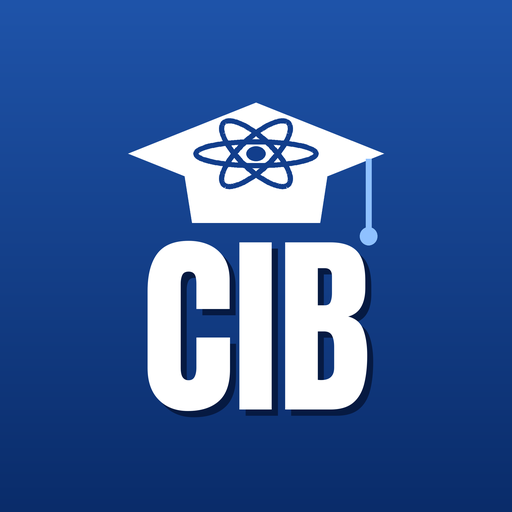
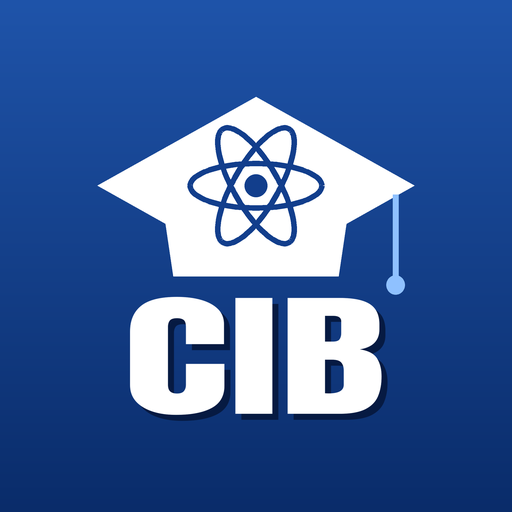
Ícone com átomo sem deformação; formulário com essenciais em destaque e 43 fórmulas complementares
Claude-Session: https://claude.ai/code/session_01Gk3ac94Cfx6E4qgia26HRX

Changed region(s): [[0.1875, 0.1875, 0.8125, 0.8438]]

diff --git a/index.html b/index.html
@@ -305,6 +305,26 @@ body{font-size:16px}
 .ln-bloco .ln-head::before{content:"";position:absolute;left:31px;top:2.5px;border-top:4.75px solid transparent;border-bottom:4.75px solid transparent;border-left:7px solid var(--road-ink)}
 .ln-bloco{margin-right:30px}
 .ln-bloco .ln-src{width:4px;height:22px;left:-12px;top:13px;transform:translateY(-50%);background:repeating-linear-gradient(180deg,var(--road-ink) 0 2px,transparent 2px 5px);opacity:.6}
+/* Formulário: essenciais em destaque; complementares recolhidas e mais discretas */
+:root{--main-bg:#E3ECFA;--main-line:#123E8C;--extra-line:#9AA7B6}
+@media (prefers-color-scheme: dark){:root:not([data-theme="light"]){--main-bg:#14254A;--main-line:#6F9BE8;--extra-line:#4A5868}}
+:root[data-theme="dark"]{--main-bg:#14254A;--main-line:#6F9BE8;--extra-line:#4A5868}
+.leg{display:inline-block;white-space:nowrap;font-family:var(--f-mono);font-size:11px;font-weight:600;letter-spacing:.06em;text-transform:uppercase;padding:2px 8px;border-radius:999px;margin-right:6px;vertical-align:1px}
+.leg-main{background:var(--main-line);color:#FFFFFF}
+.leg-extra{background:transparent;color:var(--muted);box-shadow:inset 0 0 0 1px var(--extra-line)}
+.formleg{gap:8px}
+.formleg p{font-size:15px}
+.form-tag{margin:0}
+.tool.tool-main{background:var(--main-bg);border-left:4px solid var(--main-line)}
+.tool.tool-main h4{color:var(--main-line)}
+.form-extra{border-top:1.5px dashed var(--line);padding-top:10px}
+.form-extra summary{list-style:none;display:flex;align-items:center;gap:8px;cursor:pointer;padding:4px 0}
+.form-extra summary::-webkit-details-marker{display:none}
+.form-extra summary .chev{margin-left:auto;font-family:var(--f-mono);color:var(--muted);transition:transform .2s}
+.form-extra[open] summary .chev{transform:rotate(90deg)}
+.form-extra .form-grid{margin-top:10px}
+.tool.tool-extra{background:transparent;border:1px dashed var(--extra-line)}
+.tool.tool-extra div{font-size:15px}
 
 .install{border-color:var(--sign)}
 .install p{margin:0}
@@ -781,6 +801,63 @@ const FORMULARIO = [
     ['Gravitação universal', `F = G · ${f('M · m','d²')}<br><small>G = 6,7 × 10⁻¹¹ N·m²/kg²</small>`],
     ['Energia de um fóton', `E = h · f<br><small>h = 6,6 × 10⁻³⁴ J·s</small>`]]]
 ];
+
+/* ===== Formulário · fórmulas complementares ("Para ir além") ===== */
+const FORMULARIO_EXTRA = {
+  'Eletrodinâmica': [
+    ['Corrente elétrica', `i = ${f('ΔQ','Δt')} &nbsp;;&nbsp; Q = n · e<br><small>e = 1,6 × 10⁻¹⁹ C</small>`],
+    ['Rendimento do gerador', `P<sub>útil</sub> = U · i &nbsp;;&nbsp; P<sub>total</sub> = ε · i<br>η = ${f('U','ε')}`],
+    ['Custo da energia', `custo = E (kWh) × tarifa (R$/kWh)`],
+    ['Fusível e disjuntor', `<small>escolha o valor imediatamente acima da maior corrente de operação do circuito</small>`]],
+  'Magnetismo': [
+    ['Força magnética sobre carga', `F = |q| · v · B · sen θ`],
+    ['Força magnética sobre fio', `F = B · i · L · sen θ`],
+    ['Campo de um fio longo', `B = ${f('μ₀ · i','2π · d')}<br><small>μ₀ = 4π × 10⁻⁷ T·m/A</small>`],
+    ['fem de movimento', `ε = B · L · v`],
+    ['Lei de Lenz', `<small>a corrente induzida se opõe à variação do fluxo que a produziu</small>`]],
+  'Termologia': [
+    ['Capacidade térmica', `C = m · c = ${f('Q','ΔT')}`],
+    ['Equilíbrio térmico', `Q₁ + Q₂ + … = 0<br><small>calor recebido positivo; cedido negativo</small>`],
+    ['Dilatação superficial e volumétrica', `ΔA = A₀ · β · ΔT &nbsp;;&nbsp; ΔV = V₀ · γ · ΔT<br><small>β = 2α; γ = 3α</small>`],
+    ['1ª lei da termodinâmica', `ΔU = Q − τ<br>pressão constante: τ = p · ΔV`]],
+  'Ondulatória': [
+    ['Período e frequência', `T = ${f('1','f')}`],
+    ['Tubos sonoros', `aberto: f<sub>n</sub> = ${f('n · v','2L')} &nbsp;;&nbsp; fechado: f<sub>n</sub> = ${f('n · v','4L')} <small>(n ímpar)</small>`],
+    ['Velocidade numa corda', `v = √${f('F','μ')}<br><small>μ: massa por unidade de comprimento</small>`],
+    ['Nível de intensidade sonora', `β = 10 · log ${f('I','I₀')} <small>(dB)</small>`],
+    ['Efeito Doppler', `f′ = f · ${f('v ± v<sub>o</sub>','v ∓ v<sub>f</sub>')}<br><small>sinais de cima: observador e fonte se aproximando</small>`]],
+  'Cinemática': [
+    ['Queda livre', `v = g · t &nbsp;;&nbsp; h = ${f('g · t²','2')}`],
+    ['Lançamento oblíquo', `v<sub>x</sub> = v₀ · cos θ &nbsp;;&nbsp; v<sub>0y</sub> = v₀ · sen θ<br>alcance: A = ${f('v₀² · sen 2θ','g')}`],
+    ['Movimento circular uniforme', `ω = 2π · f &nbsp;;&nbsp; v = ω · R<br>a<sub>cp</sub> = ${f('v²','R')}`]],
+  'Dinâmica e energia': [
+    ['Força elástica', `F = k · x`],
+    ['Resultante centrípeta', `F<sub>cp</sub> = ${f('m · v²','R')}`],
+    ['Plano inclinado', `P<sub>x</sub> = P · sen θ &nbsp;;&nbsp; P<sub>y</sub> = P · cos θ`],
+    ['Teorema da energia cinética', `τ<sub>R</sub> = ΔE<sub>c</sub>`],
+    ['Rendimento', `η = ${f('P<sub>útil</sub>','P<sub>total</sub>')}`],
+    ['Colisões', `e = ${f('v<sub>afastamento</sub>','v<sub>aproximação</sub>')}<br><small>e = 1: elástica; e = 0: perfeitamente inelástica</small>`]],
+  'Fluidos': [
+    ['Peso aparente', `P<sub>ap</sub> = P − E`],
+    ['Vazão e continuidade', `Z = ${f('V','Δt')} = A · v &nbsp;;&nbsp; A₁ · v₁ = A₂ · v₂`],
+    ['Pressão atmosférica', `1 atm ≈ 1,0 × 10⁵ Pa ≈ 76 cmHg<br><small>≈ coluna de 10 m de água</small>`]],
+  'Eletrostática': [
+    ['Campo elétrico', `E = ${f('F','|q|')} &nbsp;;&nbsp; E = k · ${f('|Q|','d²')}`],
+    ['Potencial e trabalho', `V = k · ${f('Q','d')} &nbsp;;&nbsp; τ = q · U<br>campo uniforme: U = E · d`],
+    ['Constante eletrostática', `k = 9,0 × 10⁹ N·m²/C² <small>(no vácuo)</small>`]],
+  'Óptica': [
+    ['Espelhos esféricos', `f = ${f('R','2')} <small>(mesma equação de Gauss das lentes)</small>`],
+    ['Ângulo limite', `sen L = ${f('n<sub>menor</sub>','n<sub>maior</sub>')}`],
+    ['Câmara escura', `${f('i','o')} = ${f('p′','p')}`],
+    ['Associação de espelhos planos', `N = ${f('360°','α')} − 1`],
+    ['Lentes justapostas', `V = V₁ + V₂`]],
+  'Gravitação e física moderna': [
+    ['Gravidade na superfície', `g = ${f('G · M','R²')}`],
+    ['3ª lei de Kepler', `${f('T²','r³')} = constante`],
+    ['Efeito fotoelétrico', `E<sub>c máx</sub> = h · f − W<br><small>W: função trabalho do metal</small>`],
+    ['Massa e energia', `E = m · c²`],
+    ['Meia-vida', `m = ${f('m₀','2ⁿ')}<br><small>n: número de meias-vidas</small>`]]
+};
 
 /* ===== Indução eletromagnética · Listas 1 e 2 (vindas do site do 3º ano) ===== */
 /* ===== figuras ===== */
@@ -1637,9 +1714,18 @@ function openFormulario(){
   plate(`Física · ${SITE.turma} · Aulão`, 'Formulário', 'Todas as fórmulas da lista do aulão, por assunto.');
   document.documentElement.classList.add('th-form');
   crumbs([{ label:'Início', nav:'home' }, { label:'Formulário' }]);
+  const totalExtra = Object.values(FORMULARIO_EXTRA).reduce((n, l) => n + l.length, 0);
   $('view').innerHTML = `
+    <section class="card intro formleg"><p><span class="leg leg-main">Essenciais</span> São as fórmulas da lista do aulão. Comece por elas: dominando estas, você resolve as 30 questões.</p>
+      <p><span class="leg leg-extra">Para ir além</span> Mais ${totalExtra} fórmulas que costumam aparecer no ENEM. Abra em cada assunto quando as essenciais já estiverem firmes.</p></section>
     <nav class="card formnav" aria-label="Assuntos do formulário"><p class="sect-label">Ir para</p><div class="row" style="gap:6px">${FORMULARIO.map(([sec], i) => `<a class="chip chip-link" href="#/formulario" data-sec="${i}">${sec}</a>`).join('')}</div></nav>
-    ${FORMULARIO.map(([sec, itens], i) => `<section class="card formsec" id="sec${i}"><h2 class="formh">${sec}</h2><div class="tools-grid form-grid">${itens.map(([t, h]) => `<div class="tool"><h4>${t}</h4><div>${h}</div></div>`).join('')}</div></section>`).join('')}`;
+    ${FORMULARIO.map(([sec, itens], i) => { const ex = FORMULARIO_EXTRA[sec] || [];
+      return `<section class="card formsec" id="sec${i}"><h2 class="formh">${sec}</h2>
+        <p class="form-tag"><span class="leg leg-main">Essenciais</span></p>
+        <div class="tools-grid form-grid">${itens.map(([t, h]) => `<div class="tool tool-main"><h4>${t}</h4><div>${h}</div></div>`).join('')}</div>
+        ${ex.length ? `<details class="form-extra"><summary><span class="leg leg-extra">Para ir além</span><span class="small">${ex.length} ${ex.length > 1 ? 'fórmulas complementares' : 'fórmula complementar'}</span><span class="chev">›</span></summary>
+          <div class="tools-grid form-grid">${ex.map(([t, h]) => `<div class="tool tool-extra"><h4>${t}</h4><div>${h}</div></div>`).join('')}</div></details>` : ''}
+      </section>`; }).join('')}`;
   toTop();
 }
 

diff --git a/fonte/enem.js b/fonte/enem.js
@@ -417,3 +417,60 @@ const FORMULARIO = [
     ['Gravitação universal', `F = G · ${f('M · m','d²')}<br><small>G = 6,7 × 10⁻¹¹ N·m²/kg²</small>`],
     ['Energia de um fóton', `E = h · f<br><small>h = 6,6 × 10⁻³⁴ J·s</small>`]]]
 ];
+
+/* ===== Formulário · fórmulas complementares ("Para ir além") ===== */
+const FORMULARIO_EXTRA = {
+  'Eletrodinâmica': [
+    ['Corrente elétrica', `i = ${f('ΔQ','Δt')} &nbsp;;&nbsp; Q = n · e<br><small>e = 1,6 × 10⁻¹⁹ C</small>`],
+    ['Rendimento do gerador', `P<sub>útil</sub> = U · i &nbsp;;&nbsp; P<sub>total</sub> = ε · i<br>η = ${f('U','ε')}`],
+    ['Custo da energia', `custo = E (kWh) × tarifa (R$/kWh)`],
+    ['Fusível e disjuntor', `<small>escolha o valor imediatamente acima da maior corrente de operação do circuito</small>`]],
+  'Magnetismo': [
+    ['Força magnética sobre carga', `F = |q| · v · B · sen θ`],
+    ['Força magnética sobre fio', `F = B · i · L · sen θ`],
+    ['Campo de um fio longo', `B = ${f('μ₀ · i','2π · d')}<br><small>μ₀ = 4π × 10⁻⁷ T·m/A</small>`],
+    ['fem de movimento', `ε = B · L · v`],
+    ['Lei de Lenz', `<small>a corrente induzida se opõe à variação do fluxo que a produziu</small>`]],
+  'Termologia': [
+    ['Capacidade térmica', `C = m · c = ${f('Q','ΔT')}`],
+    ['Equilíbrio térmico', `Q₁ + Q₂ + … = 0<br><small>calor recebido positivo; cedido negativo</small>`],
+    ['Dilatação superficial e volumétrica', `ΔA = A₀ · β · ΔT &nbsp;;&nbsp; ΔV = V₀ · γ · ΔT<br><small>β = 2α; γ = 3α</small>`],
+    ['1ª lei da termodinâmica', `ΔU = Q − τ<br>pressão constante: τ = p · ΔV`]],
+  'Ondulatória': [
+    ['Período e frequência', `T = ${f('1','f')}`],
+    ['Tubos sonoros', `aberto: f<sub>n</sub> = ${f('n · v','2L')} &nbsp;;&nbsp; fechado: f<sub>n</sub> = ${f('n · v','4L')} <small>(n ímpar)</small>`],
+    ['Velocidade numa corda', `v = √${f('F','μ')}<br><small>μ: massa por unidade de comprimento</small>`],
+    ['Nível de intensidade sonora', `β = 10 · log ${f('I','I₀')} <small>(dB)</small>`],
+    ['Efeito Doppler', `f′ = f · ${f('v ± v<sub>o</sub>','v ∓ v<sub>f</sub>')}<br><small>sinais de cima: observador e fonte se aproximando</small>`]],
+  'Cinemática': [
+    ['Queda livre', `v = g · t &nbsp;;&nbsp; h = ${f('g · t²','2')}`],
+    ['Lançamento oblíquo', `v<sub>x</sub> = v₀ · cos θ &nbsp;;&nbsp; v<sub>0y</sub> = v₀ · sen θ<br>alcance: A = ${f('v₀² · sen 2θ','g')}`],
+    ['Movimento circular uniforme', `ω = 2π · f &nbsp;;&nbsp; v = ω · R<br>a<sub>cp</sub> = ${f('v²','R')}`]],
+  'Dinâmica e energia': [
+    ['Força elástica', `F = k · x`],
+    ['Resultante centrípeta', `F<sub>cp</sub> = ${f('m · v²','R')}`],
+    ['Plano inclinado', `P<sub>x</sub> = P · sen θ &nbsp;;&nbsp; P<sub>y</sub> = P · cos θ`],
+    ['Teorema da energia cinética', `τ<sub>R</sub> = ΔE<sub>c</sub>`],
+    ['Rendimento', `η = ${f('P<sub>útil</sub>','P<sub>total</sub>')}`],
+    ['Colisões', `e = ${f('v<sub>afastamento</sub>','v<sub>aproximação</sub>')}<br><small>e = 1: elástica; e = 0: perfeitamente inelástica</small>`]],
+  'Fluidos': [
+    ['Peso aparente', `P<sub>ap</sub> = P − E`],
+    ['Vazão e continuidade', `Z = ${f('V','Δt')} = A · v &nbsp;;&nbsp; A₁ · v₁ = A₂ · v₂`],
+    ['Pressão atmosférica', `1 atm ≈ 1,0 × 10⁵ Pa ≈ 76 cmHg<br><small>≈ coluna de 10 m de água</small>`]],
+  'Eletrostática': [
+    ['Campo elétrico', `E = ${f('F','|q|')} &nbsp;;&nbsp; E = k · ${f('|Q|','d²')}`],
+    ['Potencial e trabalho', `V = k · ${f('Q','d')} &nbsp;;&nbsp; τ = q · U<br>campo uniforme: U = E · d`],
+    ['Constante eletrostática', `k = 9,0 × 10⁹ N·m²/C² <small>(no vácuo)</small>`]],
+  'Óptica': [
+    ['Espelhos esféricos', `f = ${f('R','2')} <small>(mesma equação de Gauss das lentes)</small>`],
+    ['Ângulo limite', `sen L = ${f('n<sub>menor</sub>','n<sub>maior</sub>')}`],
+    ['Câmara escura', `${f('i','o')} = ${f('p′','p')}`],
+    ['Associação de espelhos planos', `N = ${f('360°','α')} − 1`],
+    ['Lentes justapostas', `V = V₁ + V₂`]],
+  'Gravitação e física moderna': [
+    ['Gravidade na superfície', `g = ${f('G · M','R²')}`],
+    ['3ª lei de Kepler', `${f('T²','r³')} = constante`],
+    ['Efeito fotoelétrico', `E<sub>c máx</sub> = h · f − W<br><small>W: função trabalho do metal</small>`],
+    ['Massa e energia', `E = m · c²`],
+    ['Meia-vida', `m = ${f('m₀','2ⁿ')}<br><small>n: número de meias-vidas</small>`]]
+};

diff --git a/fonte/engine_app.js b/fonte/engine_app.js
@@ -480,9 +480,18 @@ function openFormulario(){
   plate(`Física · ${SITE.turma} · Aulão`, 'Formulário', 'Todas as fórmulas da lista do aulão, por assunto.');
   document.documentElement.classList.add('th-form');
   crumbs([{ label:'Início', nav:'home' }, { label:'Formulário' }]);
+  const totalExtra = Object.values(FORMULARIO_EXTRA).reduce((n, l) => n + l.length, 0);
   $('view').innerHTML = `
+    <section class="card intro formleg"><p><span class="leg leg-main">Essenciais</span> São as fórmulas da lista do aulão. Comece por elas: dominando estas, você resolve as 30 questões.</p>
+      <p><span class="leg leg-extra">Para ir além</span> Mais ${totalExtra} fórmulas que costumam aparecer no ENEM. Abra em cada assunto quando as essenciais já estiverem firmes.</p></section>
     <nav class="card formnav" aria-label="Assuntos do formulário"><p class="sect-label">Ir para</p><div class="row" style="gap:6px">${FORMULARIO.map(([sec], i) => `<a class="chip chip-link" href="#/formulario" data-sec="${i}">${sec}</a>`).join('')}</div></nav>
-    ${FORMULARIO.map(([sec, itens], i) => `<section class="card formsec" id="sec${i}"><h2 class="formh">${sec}</h2><div class="tools-grid form-grid">${itens.map(([t, h]) => `<div class="tool"><h4>${t}</h4><div>${h}</div></div>`).join('')}</div></section>`).join('')}`;
+    ${FORMULARIO.map(([sec, itens], i) => { const ex = FORMULARIO_EXTRA[sec] || [];
+      return `<section class="card formsec" id="sec${i}"><h2 class="formh">${sec}</h2>
+        <p class="form-tag"><span class="leg leg-main">Essenciais</span></p>
+        <div class="tools-grid form-grid">${itens.map(([t, h]) => `<div class="tool tool-main"><h4>${t}</h4><div>${h}</div></div>`).join('')}</div>
+        ${ex.length ? `<details class="form-extra"><summary><span class="leg leg-extra">Para ir além</span><span class="small">${ex.length} ${ex.length > 1 ? 'fórmulas complementares' : 'fórmula complementar'}</span><span class="chev">›</span></summary>
+          <div class="tools-grid form-grid">${ex.map(([t, h]) => `<div class="tool tool-extra"><h4>${t}</h4><div>${h}</div></div>`).join('')}</div></details>` : ''}
+      </section>`; }).join('')}`;
   toTop();
 }
 

diff --git a/fonte/extra.css b/fonte/extra.css
@@ -155,3 +155,23 @@
 .ln-bloco .ln-head::before{content:"";position:absolute;left:31px;top:2.5px;border-top:4.75px solid transparent;border-bottom:4.75px solid transparent;border-left:7px solid var(--road-ink)}
 .ln-bloco{margin-right:30px}
 .ln-bloco .ln-src{width:4px;height:22px;left:-12px;top:13px;transform:translateY(-50%);background:repeating-linear-gradient(180deg,var(--road-ink) 0 2px,transparent 2px 5px);opacity:.6}
+/* Formulário: essenciais em destaque; complementares recolhidas e mais discretas */
+:root{--main-bg:#E3ECFA;--main-line:#123E8C;--extra-line:#9AA7B6}
+@media (prefers-color-scheme: dark){:root:not([data-theme="light"]){--main-bg:#14254A;--main-line:#6F9BE8;--extra-line:#4A5868}}
+:root[data-theme="dark"]{--main-bg:#14254A;--main-line:#6F9BE8;--extra-line:#4A5868}
+.leg{display:inline-block;white-space:nowrap;font-family:var(--f-mono);font-size:11px;font-weight:600;letter-spacing:.06em;text-transform:uppercase;padding:2px 8px;border-radius:999px;margin-right:6px;vertical-align:1px}
+.leg-main{background:var(--main-line);color:#FFFFFF}
+.leg-extra{background:transparent;color:var(--muted);box-shadow:inset 0 0 0 1px var(--extra-line)}
+.formleg{gap:8px}
+.formleg p{font-size:15px}
+.form-tag{margin:0}
+.tool.tool-main{background:var(--main-bg);border-left:4px solid var(--main-line)}
+.tool.tool-main h4{color:var(--main-line)}
+.form-extra{border-top:1.5px dashed var(--line);padding-top:10px}
+.form-extra summary{list-style:none;display:flex;align-items:center;gap:8px;cursor:pointer;padding:4px 0}
+.form-extra summary::-webkit-details-marker{display:none}
+.form-extra summary .chev{margin-left:auto;font-family:var(--f-mono);color:var(--muted);transition:transform .2s}
+.form-extra[open] summary .chev{transform:rotate(90deg)}
+.form-extra .form-grid{margin-top:10px}
+.tool.tool-extra{background:transparent;border:1px dashed var(--extra-line)}
+.tool.tool-extra div{font-size:15px}

diff --git a/sw.js b/sw.js
@@ -1,6 +1,6 @@
 /* Funciona sem internet: guarda o app no celular.
    Ao publicar uma versão nova, mude o número em VERSAO. */
-const VERSAO = 'fisica3cib-v5';
+const VERSAO = 'fisica3cib-v6';
 const BASE = ['./', './index.html', './manifest.webmanifest', './icons/icon-192.png', './icons/icon-512.png', './icons/maskable-512.png', './icons/apple-touch-icon.png', './icons/favicon.png',
   './img/q04.png', './img/q05.png', './img/q10.png', './img/q12.png', './img/q13.png', './img/q15.png', './img/q18.png', './img/q22.png', './img/q24.png', './img/q28.png', './img/q30.png'];
 
